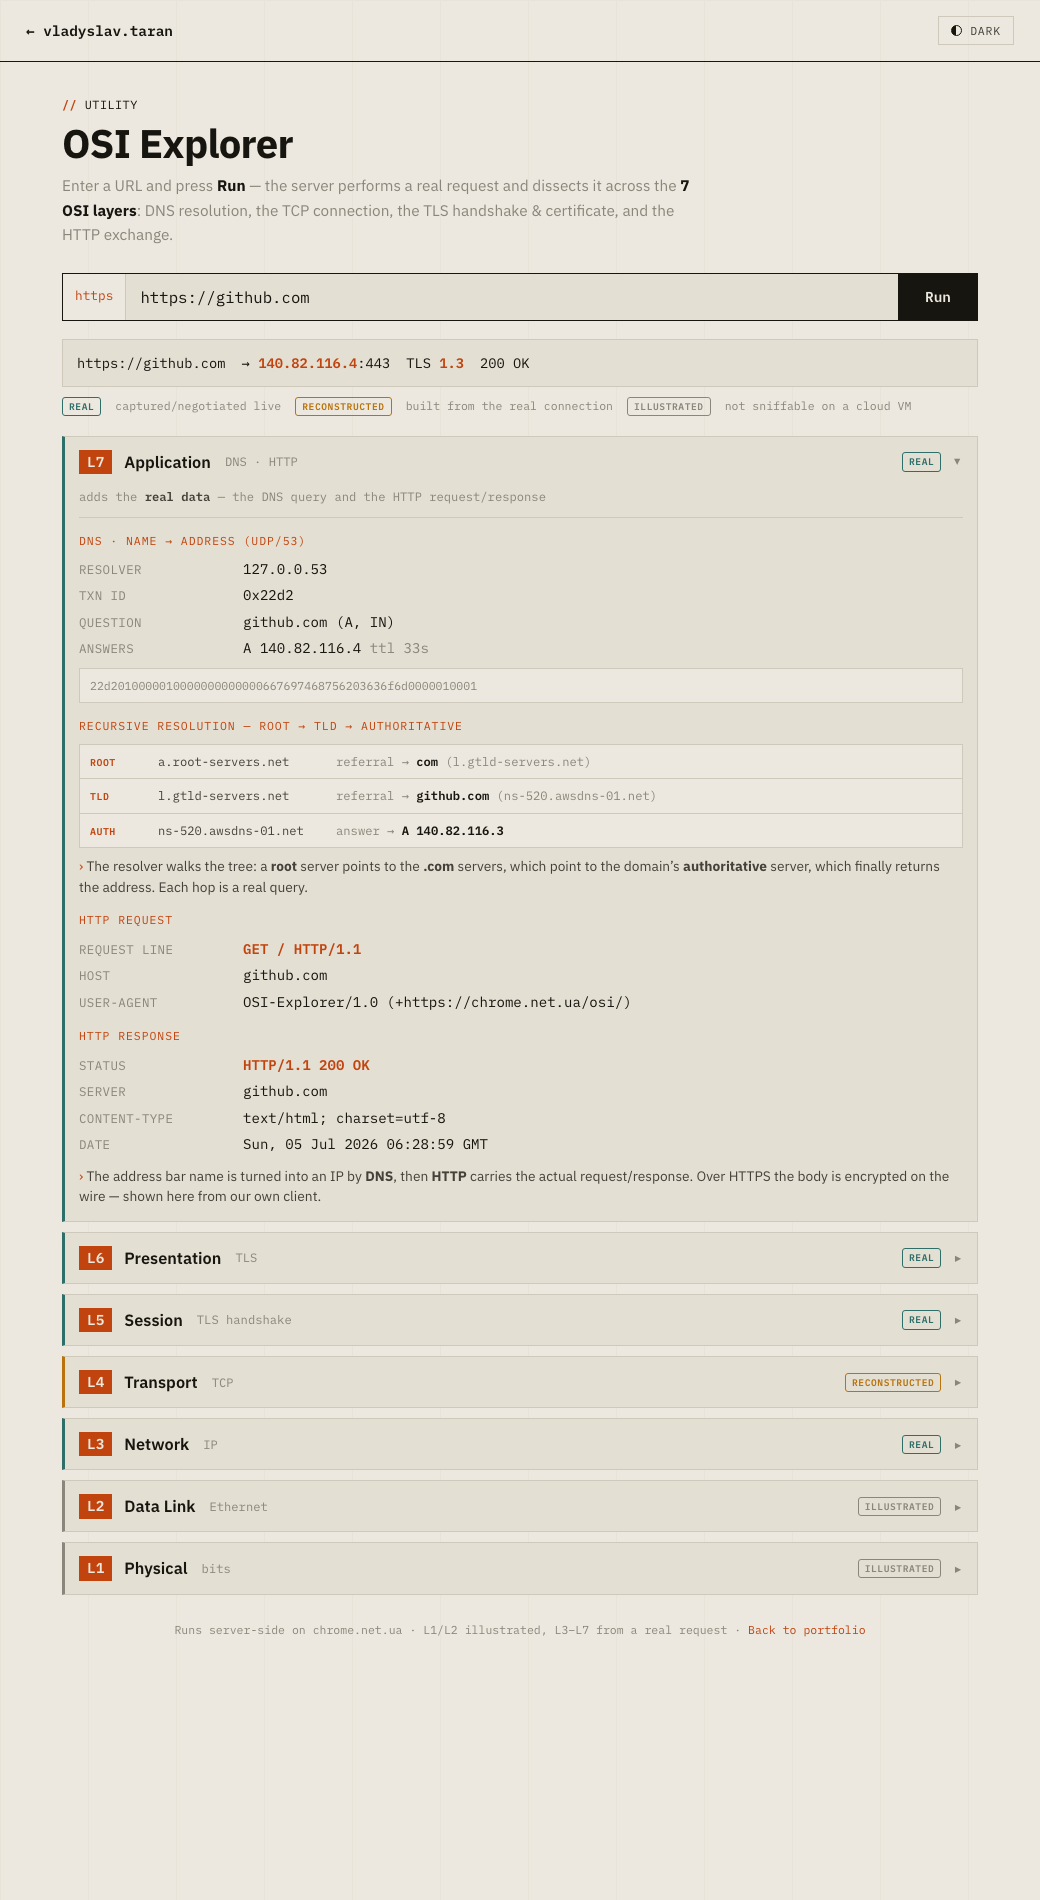
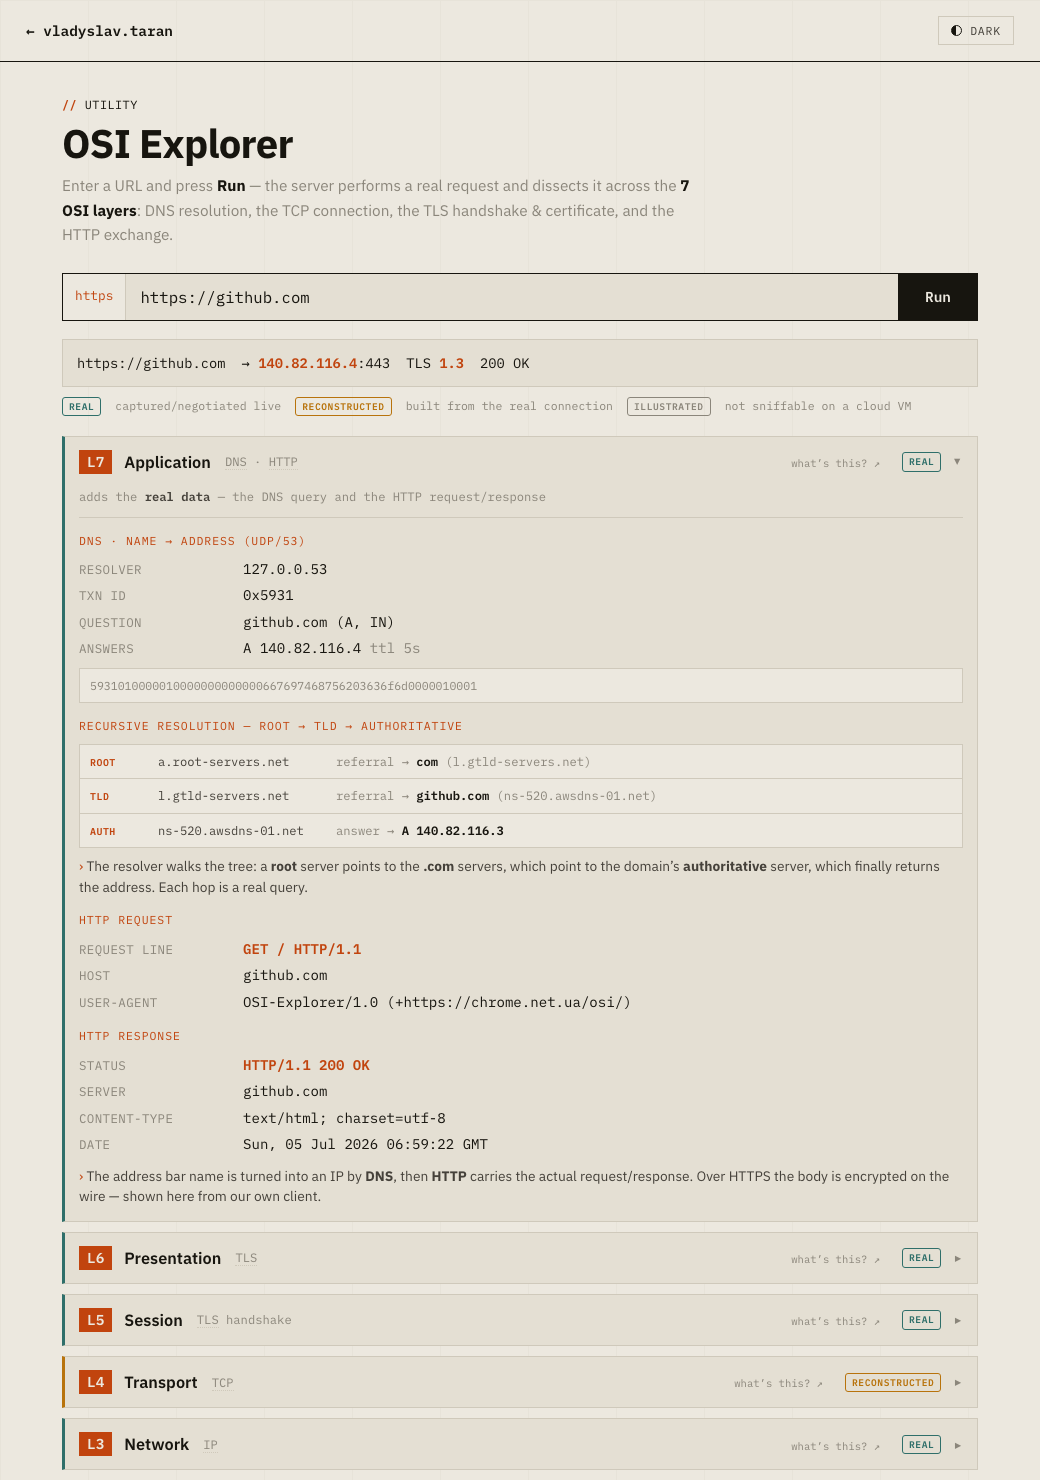
Add reference links: each layer + protocol/cipher terminology
Every layer header links to its Wikipedia article; protocol names (TLS, TCP,
IP, DNS, HTTP, UDP, Ethernet), SNI/ALPN, handshake messages, certificate, and
cipher suites (-> ciphersuite.info) are clickable references.

diff --git a/web/osi.js b/web/osi.js
@@ -32,13 +32,42 @@
 
   function esc(s){ return String(s==null?'':s).replace(/&/g,'&amp;').replace(/</g,'&lt;').replace(/>/g,'&gt;'); }
 
+  // reference links — each layer + key protocol terminology
+  var DOCS = {1:'Physical_layer',2:'Data_link_layer',3:'Network_layer',4:'Transport_layer',
+              5:'Session_layer',6:'Presentation_layer',7:'Application_layer'};
+  var TERMS = {
+    'DNS':'Domain_Name_System','HTTP':'HTTP','TLS':'Transport_Layer_Security',
+    'TCP':'Transmission_Control_Protocol','UDP':'User_Datagram_Protocol','IP':'Internet_Protocol',
+    'Ethernet':'Ethernet','SNI':'Server_Name_Indication','ALPN':'Application-Layer_Protocol_Negotiation',
+    'TTL':'Time_to_live','MAC address':'MAC_address','certificate':'Public_key_certificate',
+    'cipher suite':'Cipher_suite','handshake':'Transport_Layer_Security#TLS_handshake',
+    'ClientHello':'Transport_Layer_Security#TLS_handshake','ServerHello':'Transport_Layer_Security#TLS_handshake',
+    'A record':'List_of_DNS_record_types','root server':'Root_name_server'
+  };
+  function wiki(slug){ return 'https://en.wikipedia.org/wiki/'+slug; }
+  function ext(href,label,title){ return '<a href="'+href+'" target="_blank" rel="noopener"'+(title?' title="'+esc(title)+'"':'')+'>'+label+'</a>'; }
+  function tlink(term,label){ var s=TERMS[term]; label=(label==null?term:label); return s?ext(wiki(s),esc(label),term+' — reference'):esc(label); }
+  function cipherLink(name){
+    if(!name) return '';
+    var u = /^TLS_/.test(name) ? 'https://ciphersuite.info/cs/'+encodeURIComponent(name)+'/' : wiki('Cipher_suite');
+    return ext(u, esc(name), 'cipher suite — reference');
+  }
+  // linkify protocol names in a proto label (DNS · HTTP · TLS · TCP · IP · Ethernet)
+  function protoHtml(p){
+    var out = esc(p);
+    ['DNS','HTTP','TLS','TCP','IP','UDP','Ethernet'].forEach(function(t){
+      out = out.replace(new RegExp('\\b'+t+'\\b'), ext(wiki(TERMS[t]), t, t+' — reference'));
+    });
+    return out;
+  }
+
   function schemeOf(v){ v=v.trim().toLowerCase(); if(v.indexOf('http://')===0) return 'http'; if(v.indexOf('https://')===0) return 'https'; return 'https'; }
   input.addEventListener('input', function(){ schemeEl.textContent = schemeOf(input.value); });
   schemeEl.textContent = schemeOf(input.value);
 
   function kv(pairs){
     return '<dl class="kv">' + pairs.map(function(p){
-      return '<dt>'+esc(p[0])+'</dt><dd>'+(p[2]?p[1]:esc(p[1]))+'</dd>';
+      return '<dt>'+(p[3]?p[0]:esc(p[0]))+'</dt><dd>'+(p[2]?p[1]:esc(p[1]))+'</dd>';
     }).join('') + '</dl>';
   }
 
@@ -133,12 +162,12 @@
       var c = tls.cert || {};
       var body6 = kv([
         ['TLS version', '<b>'+esc(tls.version)+'</b>', true],
-        ['cipher', '<b>'+esc(tls.cipher)+'</b> ('+tls.bits+'-bit)', true],
+        ['cipher', '<b>'+cipherLink(tls.cipher)+'</b> ('+tls.bits+'-bit)', true],
         ['cert subject', c.subject_cn],
         ['cert issuer', (c.issuer_cn||'')+(c.issuer_org?' · '+c.issuer_org:'')],
         ['valid', (c.not_before||'?')+'  →  '+(c.not_after||'?')],
         ['SAN', (c.sans||[]).join(', ') + (c.san_count>((c.sans||[]).length)?' …':'')]
-      ]) + chainHtml(tls.wire) + '<div class="explain">This layer <b>encrypts</b> the data and proves the server’s identity with an X.509 <b>certificate</b>, using the cipher agreed in the handshake.</div>';
+      ]) + chainHtml(tls.wire) + '<div class="explain">This layer <b>encrypts</b> the data and proves the server’s identity with an X.509 <b>'+tlink('certificate','certificate')+'</b>, using the cipher agreed in the '+tlink('handshake','handshake')+'.</div>';
       L.push({n:6, name:'Presentation', proto:'TLS', kind:'real', adds:'adds <b>encryption</b> + certificate (serialisation)', body:body6});
     } else {
       L.push({n:6, name:'Presentation', proto:'—', kind:'illus',
@@ -148,15 +177,18 @@
     // L5 Session -------------------------------------------------------
     if(https && tls){
       var chosen = tls.cipher;
-      var chips = (tls.offered_sample||[]).map(function(c){ return '<span class="chip'+(c===chosen?' on':'')+'">'+esc(c)+'</span>'; }).join('');
+      var chips = (tls.offered_sample||[]).map(function(c){
+        var href = /^TLS_/.test(c) ? 'https://ciphersuite.info/cs/'+encodeURIComponent(c)+'/' : wiki('Cipher_suite');
+        return '<a class="chip'+(c===chosen?' on':'')+'" href="'+href+'" target="_blank" rel="noopener" title="cipher suite — reference">'+esc(c)+'</a>';
+      }).join('');
       var body5 = kv([
-        ['SNI', '<b>'+esc(tls.sni)+'</b>', true],
-        ['ALPN', tls.alpn || '—'],
-        ['ciphers offered', tls.offered_count + '  (ClientHello)'],
-        ['cipher chosen', '<b>'+esc(chosen)+'</b>  (ServerHello)', true]
+        [tlink('SNI','SNI'), '<b>'+esc(tls.sni)+'</b>', true, true],
+        [tlink('ALPN','ALPN'), tls.alpn || '—', false, true],
+        ['ciphers offered', tls.offered_count + '  ('+tlink('ClientHello','ClientHello')+')', true],
+        ['cipher chosen', '<b>'+cipherLink(chosen)+'</b>  ('+tlink('ServerHello','ServerHello')+')', true]
       ]) + '<div class="sub-h">negotiation — offered vs chosen</div><div class="chips">'+chips+'</div>'+
         handshakeHtml(tls.handshake, tls.wire)+
-        '<div class="explain">The <b>handshake</b> opens the secure session: the client sends a <b>ClientHello</b> listing '+tls.offered_count+' ciphers and the SNI; the server replies <b>ServerHello</b> picking one. That agreement is the negotiation.</div>';
+        '<div class="explain">The '+tlink('handshake','handshake')+' opens the secure session: the client sends a '+tlink('ClientHello','ClientHello')+' listing '+tls.offered_count+' ciphers and the '+tlink('SNI','SNI')+'; the server replies '+tlink('ServerHello','ServerHello')+' picking one. That agreement is the negotiation.</div>';
       L.push({n:5, name:'Session', proto:'TLS handshake', kind:'real', adds:'establishes the <b>session</b> (TLS handshake)', body:body5});
     } else {
       L.push({n:5, name:'Session', proto:'TCP connection', kind:'recon',
@@ -207,14 +239,15 @@
       var tag = l.kind==='real'?'<span class="tag real">real</span>':
                 l.kind==='recon'?'<span class="tag recon">reconstructed</span>':
                 '<span class="tag illus">illustrated</span>';
+      var doc = ext(wiki(DOCS[l.n]), 'what’s this? ↗', 'What is the '+l.name+' layer?');
       return '<div class="layer on-'+l.kind+(l.open?' open':'')+'">'+
         '<div class="lhead"><span class="lnum">L'+l.n+'</span>'+
-          '<span class="lname">'+l.name+'</span><span class="lproto">'+l.proto+'</span>'+
-          tag+'<span class="lchev">▸</span></div>'+
+          '<span class="lname">'+l.name+'</span><span class="lproto">'+protoHtml(l.proto)+'</span>'+
+          '<span class="ldoc">'+doc+'</span>'+tag+'<span class="lchev">▸</span></div>'+
         '<div class="lbody"><div class="ladds">'+l.adds+'</div>'+l.body+'</div></div>';
     }).join('');
     layersEl.querySelectorAll('.lhead').forEach(function(h){
-      h.addEventListener('click', function(){ h.parentNode.classList.toggle('open'); });
+      h.addEventListener('click', function(e){ if(e.target.closest('a')) return; h.parentNode.classList.toggle('open'); });
     });
   }
 

diff --git a/web/osi.css b/web/osi.css
@@ -72,7 +72,12 @@ html[data-theme="dark"] #run{background:var(--sig); color:#0c0c0b;}
 .lnum{font-family:var(--mono); font-size:.9rem; font-weight:600; color:var(--paper); background:var(--sig); padding:2px 8px; line-height:1.4; flex:0 0 auto;}
 .lname{font-family:var(--sans); font-weight:600; color:var(--ink); font-size:1.02rem;}
 .lproto{font-family:var(--mono); font-size:.76rem; color:var(--mute); margin-left:2px;}
-.lhead .tag{margin-left:auto;}
+.lproto a{color:var(--mute); border-bottom:1px dotted var(--rule);}
+.lproto a:hover{color:var(--sig); border-color:var(--sig);}
+.ldoc{margin-left:auto; flex:0 0 auto;}
+.ldoc a{font-family:var(--mono); font-size:.66rem; color:var(--mute); border-bottom:1px dotted transparent; white-space:nowrap;}
+.ldoc a:hover{color:var(--sig); border-color:var(--sig);}
+.lhead .tag{margin-left:10px;}
 .lchev{font-family:var(--mono); color:var(--mute); flex:0 0 auto; transition:transform .2s;}
 .layer.open .lchev{transform:rotate(90deg);}
 .lbody{padding:0 14px 14px; display:none;}
@@ -90,8 +95,14 @@ html[data-theme="dark"] #run{background:var(--sig); color:#0c0c0b;}
 .explain{font-size:.86rem; color:var(--ink-2); margin-top:10px; line-height:1.5;}
 .explain::before{content:"› "; color:var(--sig);}
 .chips{display:flex; flex-wrap:wrap; gap:5px; margin-top:6px;}
-.chip{font-family:var(--mono); font-size:.72rem; color:var(--ink-2); border:1px solid var(--rule); padding:2px 8px; background:var(--paper);}
+.chip{font-family:var(--mono); font-size:.72rem; color:var(--ink-2); border:1px solid var(--rule); padding:2px 8px; background:var(--paper); text-decoration:none; display:inline-block;}
+.chip:hover{border-color:var(--sig); color:var(--sig);}
 .chip.on{border-color:var(--sig); color:var(--sig); font-weight:600;}
+/* terminology links inside layer bodies */
+.lbody .kv dd a, .lbody .explain a, .lbody .sub-h a{color:inherit; border-bottom:1px dotted currentColor;}
+.lbody .kv dd a:hover, .lbody .explain a:hover, .lbody .sub-h a:hover{color:var(--sig); border-color:var(--sig);}
+.lbody .kv dt a{color:var(--mute); border-bottom:1px dotted var(--rule);}
+.lbody .kv dt a:hover{color:var(--sig); border-color:var(--sig);}
 
 /* recursive DNS trace */
 .trace{margin-top:6px; border:1px solid var(--rule); background:var(--paper);}

diff --git a/README.md b/README.md
@@ -23,6 +23,11 @@ plain-English explanation, and an honesty badge:
 | **L2 Data Link** | MAC framing / first hop | ⚪ **illustrated** |
 | **L1 Physical** | bits on the medium | ⚪ **illustrated** |
 
+Every layer header links to its **Wikipedia article** ("what's this?"), and key
+terminology is clickable — protocols (TLS, TCP, IP, DNS…) to Wikipedia, and
+cipher suites (e.g. `TLS_AES_256_GCM_SHA384`) to
+[ciphersuite.info](https://ciphersuite.info).
+
 **Honest by design:** a browser can't sniff L1–L4 off the wire, so the backend
 performs a real request and reports the layers it genuinely can (L3–L7). Lower
 layers are *reconstructed* from the real connection or *illustrated*, and